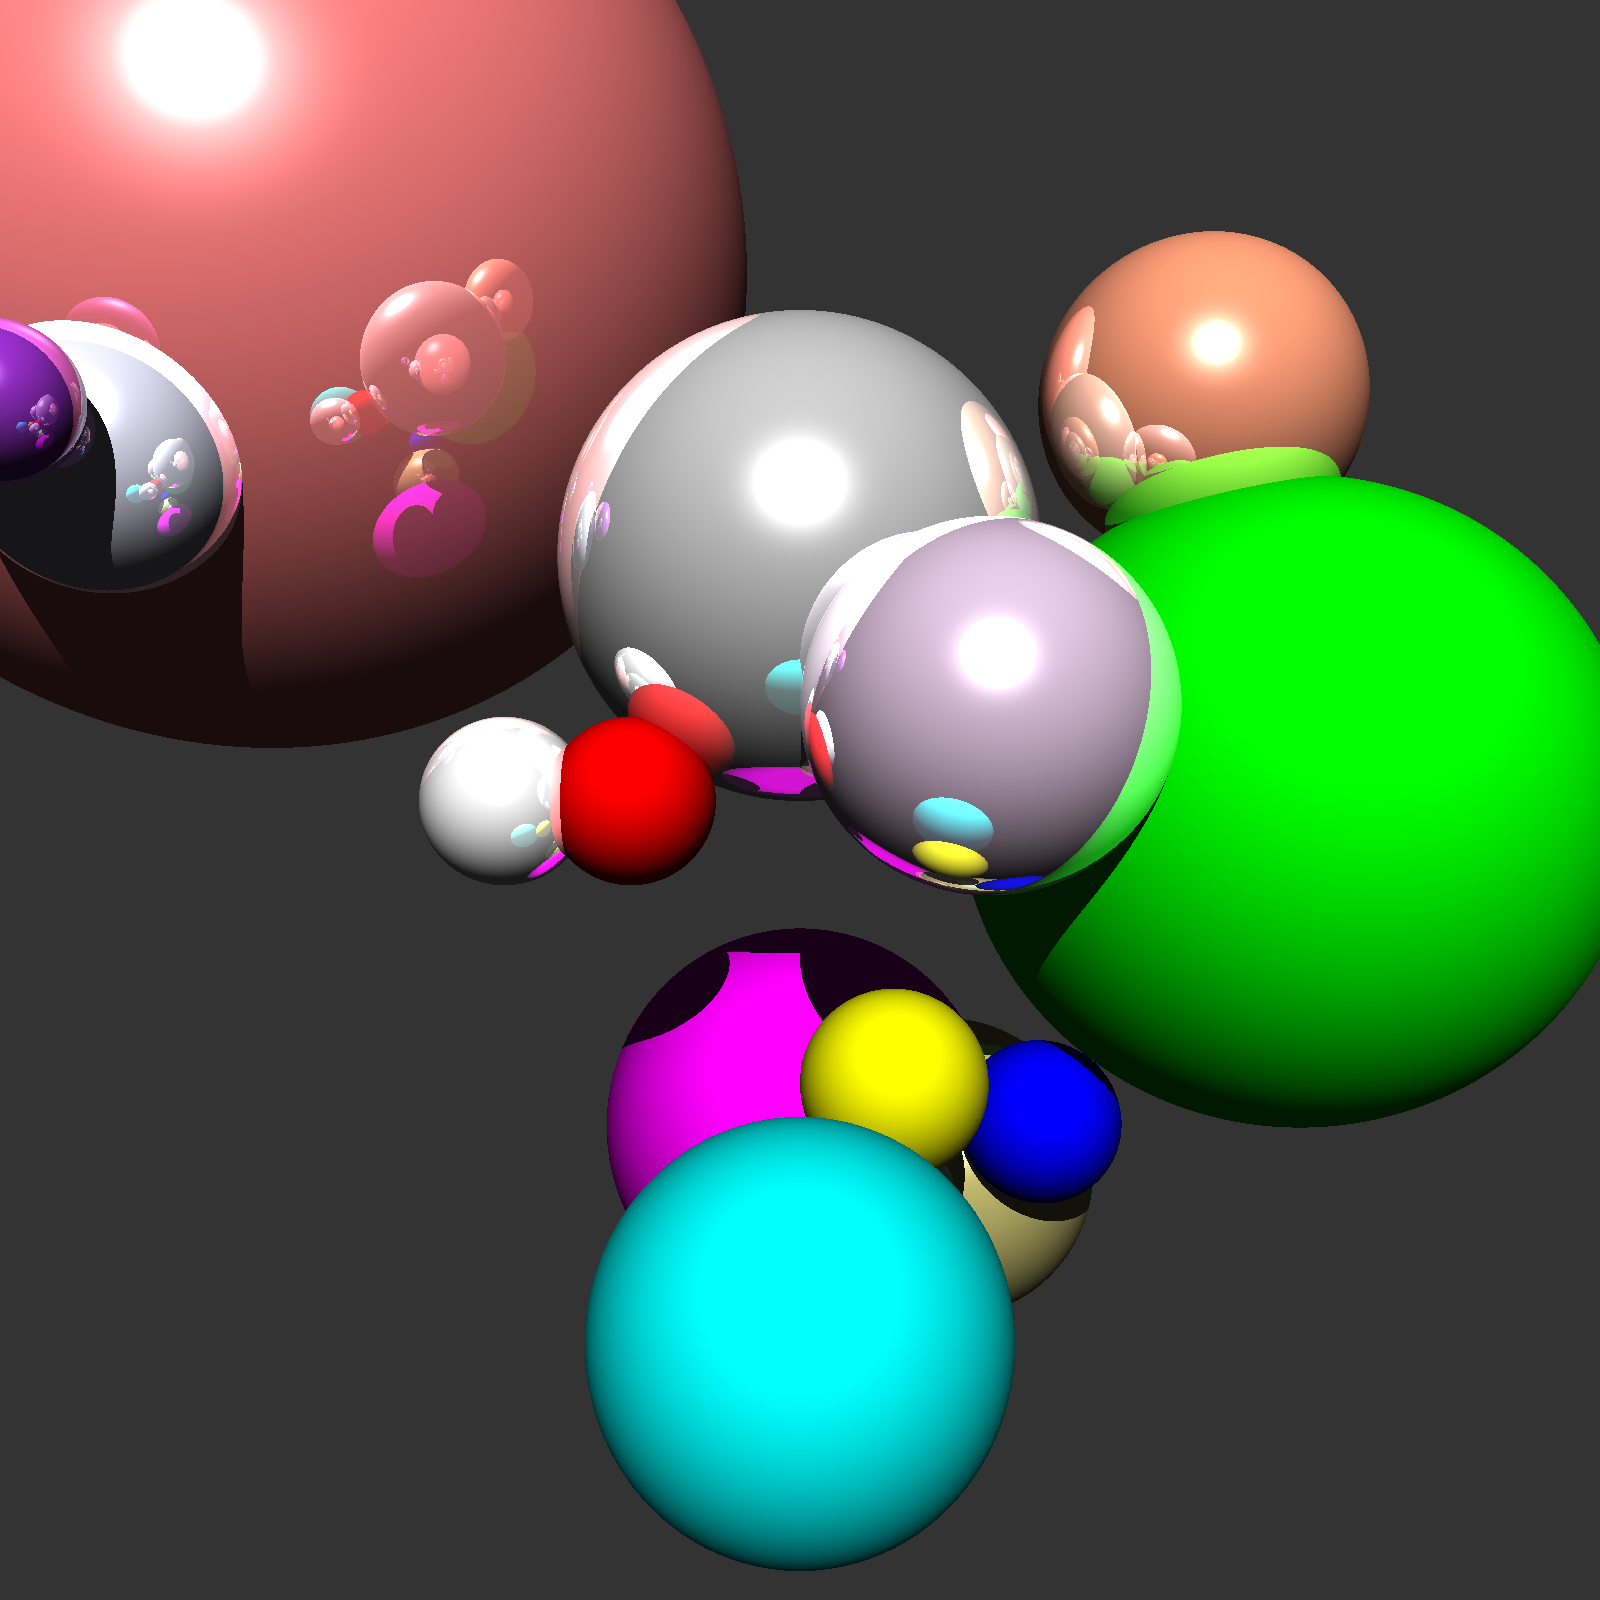
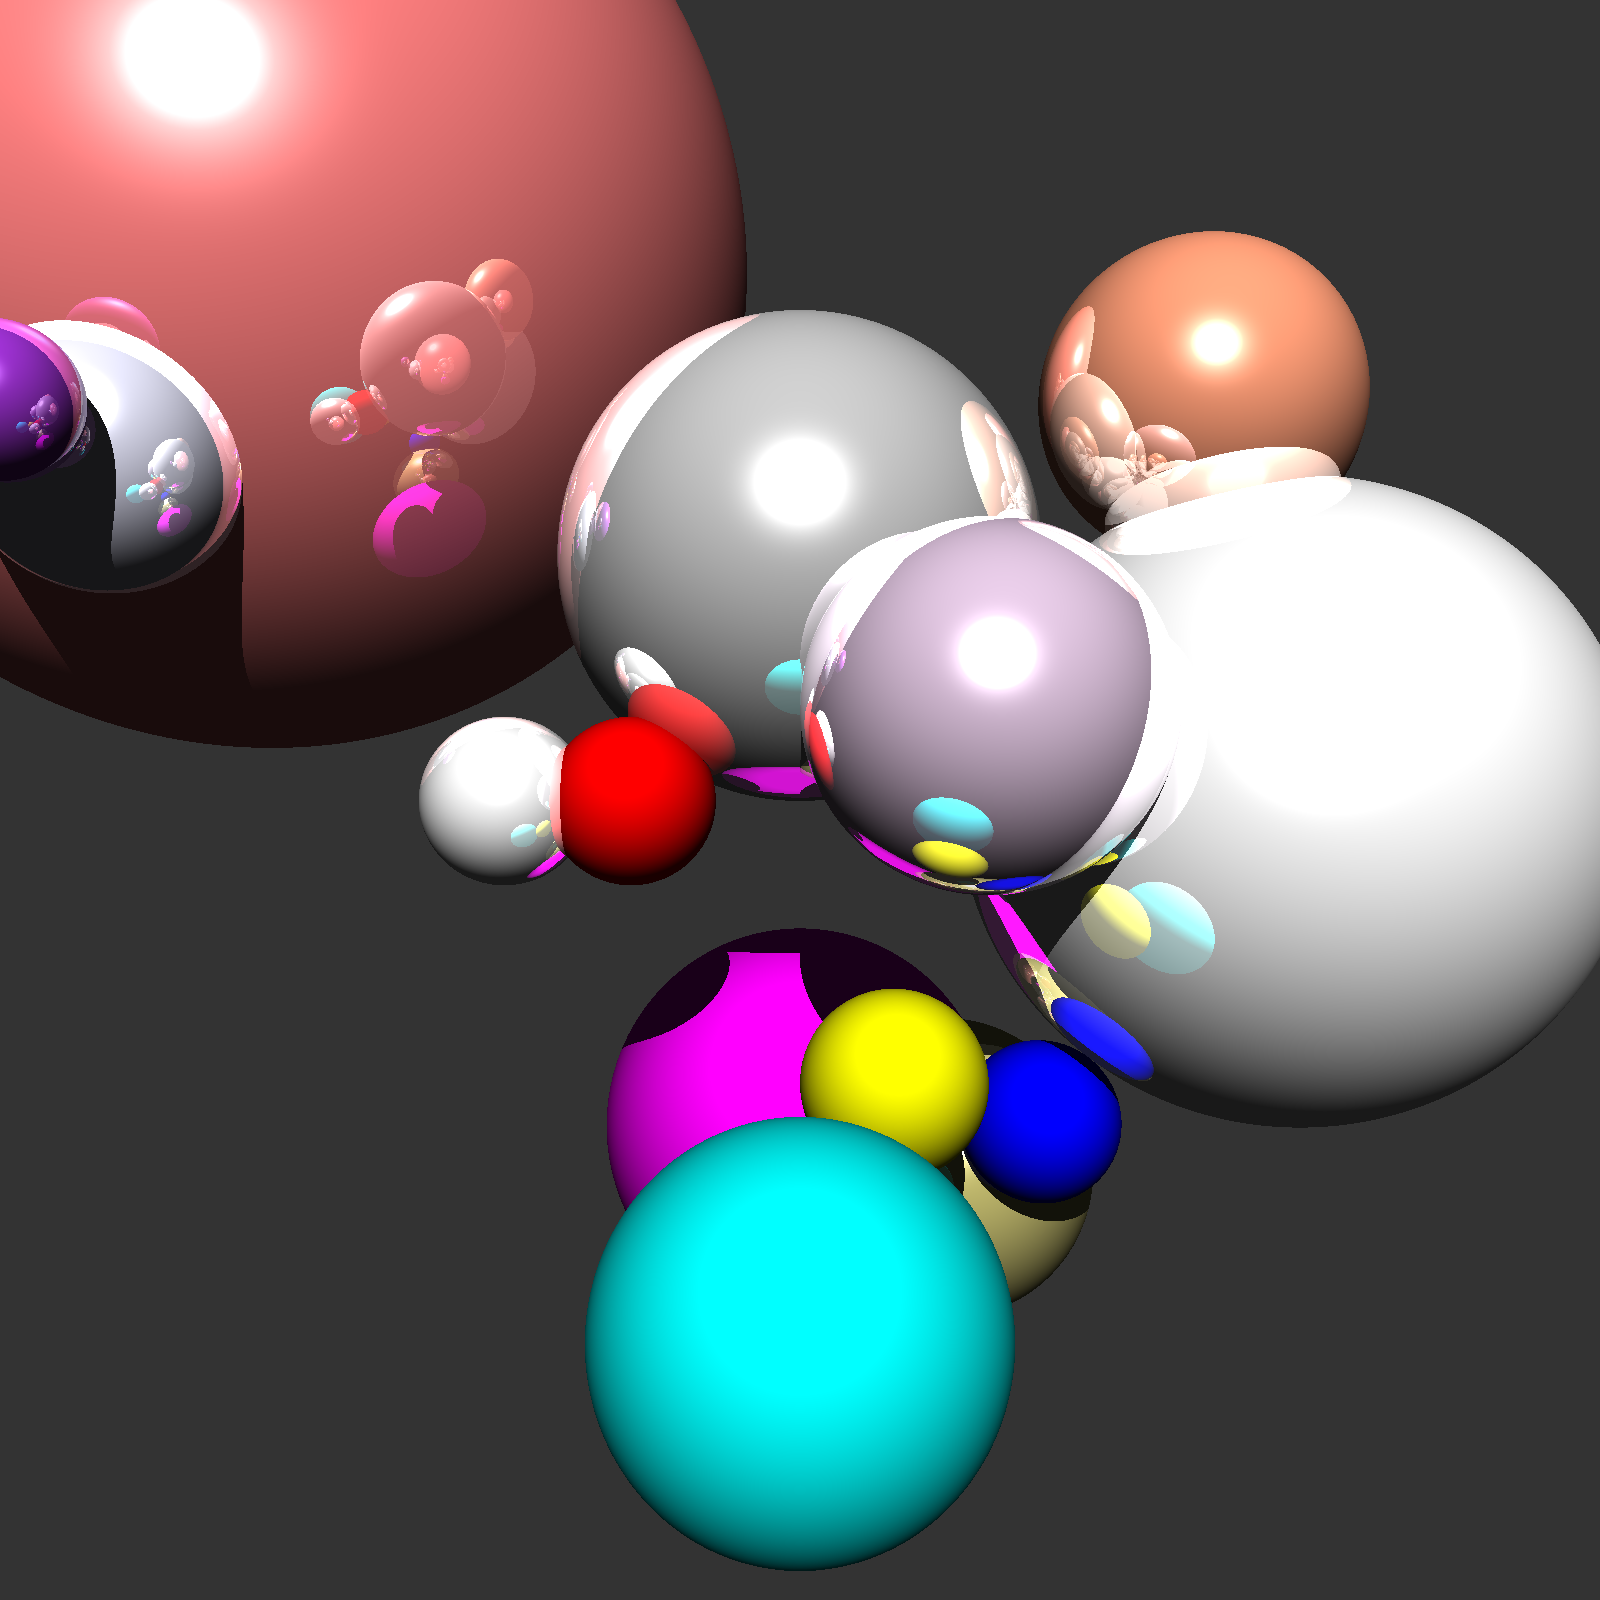
More changes

Changed region(s): [[0.5938, 0.2812, 1.0, 0.7188], [0.625, 0.3125, 0.6562, 0.3438], [0.2812, 0.25, 0.3125, 0.2812]]

diff --git a/src/shapes/Sphere.java b/src/shapes/Sphere.java
@@ -40,23 +40,11 @@ public class Sphere extends Shape {
 
     @Override
     public double findIntersection(Ray ray) {
-        double xRayOrigin = ray.getOrigin().getX();
-        double yRayOrigin = ray.getOrigin().getY();
-        double zRayOrigin = ray.getOrigin().getZ();
 
-        double xRayDirection = ray.getDirection().getX();
-        double yRayDirection = ray.getDirection().getY();
-        double zRayDirection = ray.getDirection().getZ();
+        double b = (2 * (ray.getOrigin().getX() - center.getX()) * ray.getDirection().getX()) + (2 * (ray.getOrigin().getY() - center.getY()) * ray.getDirection().getY()) + (2 * (ray.getOrigin().getZ() - center.getZ()) * ray.getDirection().getZ());
+        double c = Math.pow(ray.getOrigin().getX() - center.getX(), 2) + Math.pow(ray.getOrigin().getY() - center.getY(), 2) + Math.pow(ray.getOrigin().getZ() - center.getZ(), 2) - Math.pow(radius, 2);
 
-        double xSphereCenter = center.getX();
-        double ySphereCenter = center.getY();
-        double zSphereCenter = center.getZ();
-
-        double a = 1; // not needed
-        double b = (2 * (xRayOrigin - xSphereCenter) * xRayDirection) + (2 * (yRayOrigin - ySphereCenter) * yRayDirection) + (2 * (zRayOrigin - zSphereCenter) * zRayDirection);
-        double c = Math.pow(xRayOrigin - xSphereCenter, 2) + Math.pow(yRayOrigin - ySphereCenter, 2) + Math.pow(zRayOrigin - zSphereCenter, 2) - Math.pow(radius, 2);
-
-        double discriminant = Math.pow(b, 2) - (4 * a * c);
+        double discriminant = Math.pow(b, 2) - (4 * c);
 
         if(discriminant > 0) {
             double firstRoot = ((-1 * b - Math.sqrt(discriminant)) / 2) - .0000001;

diff --git a/src/miscellaneous/RayTracer.java b/src/miscellaneous/RayTracer.java
@@ -23,12 +23,12 @@ public class RayTracer {
     private SceneIII sceneIII = new SceneIII();
 
     public void run() {     
-        trace(sceneI);
-        trace(sceneII);
-        trace(sceneIII);
+        rayTrace(sceneI);
+        rayTrace(sceneII);
+        rayTrace(sceneIII);
     }
     
-    public void trace(Scene scene) {
+    public void rayTrace(Scene scene) {
         double aspectRatio = width / height;
         
         double red = 0;

diff --git a/src/scenes/SceneIII.java b/src/scenes/SceneIII.java
@@ -57,8 +57,8 @@ public class SceneIII extends Scene {
     	
     	shapes.add(sphere2);
     	
-    	sphere3.setColor(new Color(0, 1, 0));
-    	sphere3.setReflective((0 + 1 + 0) / 3);
+    	sphere3.setColor(new Color(1, 1, 1));
+    	sphere3.setReflective((1 + 1 + 1) / 3);
     	
     	shapes.add(sphere3);
     	

diff --git a/src/miscellaneous/Ray.java b/src/miscellaneous/Ray.java
@@ -10,11 +10,11 @@ public class Ray {
         this.direction = direction;
     }
 
-    public Vector3D getOrigin() {
-        return origin;
-    }
-
     public Vector3D getDirection() {
         return direction;
+    }
+    
+    public Vector3D getOrigin() {
+        return origin;
     }
 }
